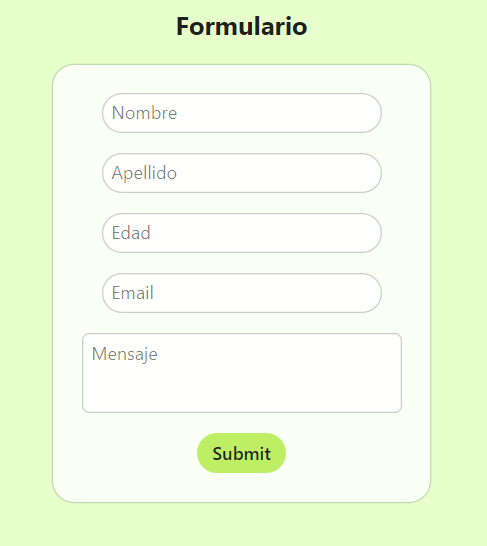
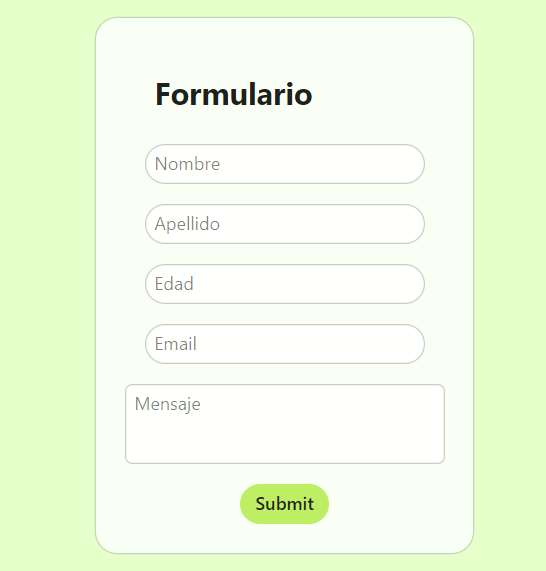
Creamos un nuevo componente

diff --git a/reflex_styles/pages/login_page.py b/reflex_styles/pages/login_page.py
@@ -1,0 +1,79 @@
+import reflex as rx
+from reflex_styles.components.navbar import navbar
+from reflex_styles.components.login import login
+from reflex_styles.style.styles import Color
+
+def login_page() -> rx.Component:
+    return(
+        navbar(titulo='Reflex styles by ', 
+               text_strong='Ericcode29', 
+               ref='/', 
+               icon='palette'),
+        rx.flex(
+            rx.text.strong('Componente LogIn',
+                           padding = '1em'),
+            login(),
+
+            rx.code_block(
+            """
+def login() -> rx.Component:
+    return (
+        rx.flex(
+            rx.card(
+                rx.heading(
+                        'LogIn',
+                        padding = '1em'
+                        ),
+                rx.vstack(
+                    rx.input(placeholder='Email',
+                        type='email'
+                        ),
+                    rx.input(placeholder='Password',
+                            type='password',
+                            ),
+                    rx.button('Acceder',
+                        on_click = rx.window_alert('LogIn')
+                        ),
+                    
+                    rx.flex(
+                        rx.link('Crear cuenta',
+                                href = '#'
+                                ),
+                        rx.link('¿Olvidó su contraseña?',
+                                href = '#'
+                                ),
+                        direction='row',
+                        align='baseline',
+                        spacing='4',
+                        ),
+
+                    spacing='4',
+                    align='center',
+                    
+                    ),
+                size='3',
+                ),
+
+            direction='column',
+            align='center',
+            justify='center',
+            spacing='4'
+            ),
+        )
+""",
+            language = "python",
+            auto_height = True,
+            can_copy = True
+            ),
+
+
+            direction='column',
+            spacing='4',
+            align='center',
+            height = '100%',
+            width = '100%',
+            background_color = Color.verde_claro.value
+            ),
+
+        
+        )

diff --git a/reflex_styles/reflex_styles.py b/reflex_styles/reflex_styles.py
@@ -4,6 +4,7 @@ from reflex_styles.style.styles import Color
 from reflex_styles.pages.form_page import form_page
 from reflex_styles.pages.navbar_page import navbar_page
 from reflex_styles.pages.card_page import card_page
+from reflex_styles.pages.login_page import login_page
 from reflex_styles.components.card import card
 from reflex_styles.components.navbar_index import navbar_index
 from reflex_styles.components.footer import footer
@@ -20,7 +21,7 @@ def index() -> rx.Component:
         rx.flex(
             rx.text(
                 """
-Bienvenidos a mi propuesta para la haxkaton de MoureDev, una pequeña ayuda para crear tu componentes con Reflex.
+Bienvenidos a mi propuesta para la hackaton de MoureDev, una pequeña ayuda para crear tu componentes con Reflex.
 La idea es ahorrar tiempo al escribir código, dando unos componentes predefinidos, los cuales puedes adaptar a tu estilo y gusto posteriormente.
 Aquí debajo van algunos ejemplos. Quizá en un futuro existan más... Quien sabe. 
 Espero que los disfruten y les ayuden a ahorrar tiempo al crear sus ideas.
@@ -47,8 +48,8 @@ Espero que los disfruten y les ayuden a ahorrar tiempo al crear sus ideas.
                 href='/form'
             ),
             rx.link(
-                card('Card', '/card.png'),
-                href='/card'
+                card('LogIn', '/login.png'),
+                href='/login'
             ),
             rx.link(
                 card('NavBar', '/navbar.png'),
@@ -90,5 +91,6 @@ app.add_page(index)
 app.add_page(form_page, route='/form' )
 app.add_page(card_page, route='/card')
 app.add_page(navbar_page, route='/navbar')
+app.add_page(login_page, route = '/login')
 
 

diff --git a/reflex_styles/components/login.py b/reflex_styles/components/login.py
@@ -1,0 +1,48 @@
+import reflex as rx
+from reflex_styles.components.card import card
+
+def login() -> rx.Component:
+    return (
+        rx.flex(
+            rx.card(
+                rx.heading(
+                        'LogIn',
+                        padding = '1em'
+                        ),
+                rx.vstack(
+                    rx.input(placeholder='Email',
+                        type='email'
+                        ),
+                    rx.input(placeholder='Password',
+                            type='password',
+                            ),
+                    rx.button('Acceder',
+                        on_click = rx.window_alert('LogIn')
+                        ),
+                    
+                    rx.flex(
+                        rx.link('Crear cuenta',
+                                href = '#'
+                                ),
+                        rx.link('¿Olvidó su contraseña?',
+                                href = '#'
+                                ),
+                        direction='row',
+                        align='baseline',
+                        spacing='4',
+                        ),
+
+                    spacing='4',
+                    align='center',
+                    
+                    ),
+                size='3',
+                ),
+
+            direction='column',
+            align='center',
+            justify='center',
+            spacing='4'
+            )
+
+        )

diff --git a/reflex_styles/pages/card_page.py b/reflex_styles/pages/card_page.py
@@ -20,7 +20,7 @@ def card_page() -> rx.Component:
 
             rx.code_block(
                 """
-def card(titulo = '', imagen = '') -> rx.Component:
+def card(titulo = '', imagen = '', background = '', color = '') -> rx.Component:
     return(
         rx.card(
             titulo,
@@ -30,9 +30,9 @@ def card(titulo = '', imagen = '') -> rx.Component:
                 height = '300px',
                 border_radius = '10px'   
                 ),
-            background_color = Color.gris_claro.value,
-            color = Color.verde_claro.value,
-            _hover = {'color':Color.verde_base.value}
+            background_color = background,
+            color = color,
+            _hover = {'color': 'white'}
             ),
             
         )

diff --git a/reflex_styles/pages/form_page.py b/reflex_styles/pages/form_page.py
@@ -14,7 +14,9 @@ def form_page(titulo = 'Componente formulario') -> rx.Component: #hay que añadi
                     weight='bold'
                     ),
             rx.card(
-                rx.heading(text = titulo),
+                rx.heading('Formulario',
+                          padding = '1em'  
+                           ),
                 rx.vstack(
                     rx.input(placeholder='Nombre', type='text', size='2', width = Size.mediano.value),
                     rx.input(placeholder='Apellido', type='text', size='2', width = Size.mediano.value),
